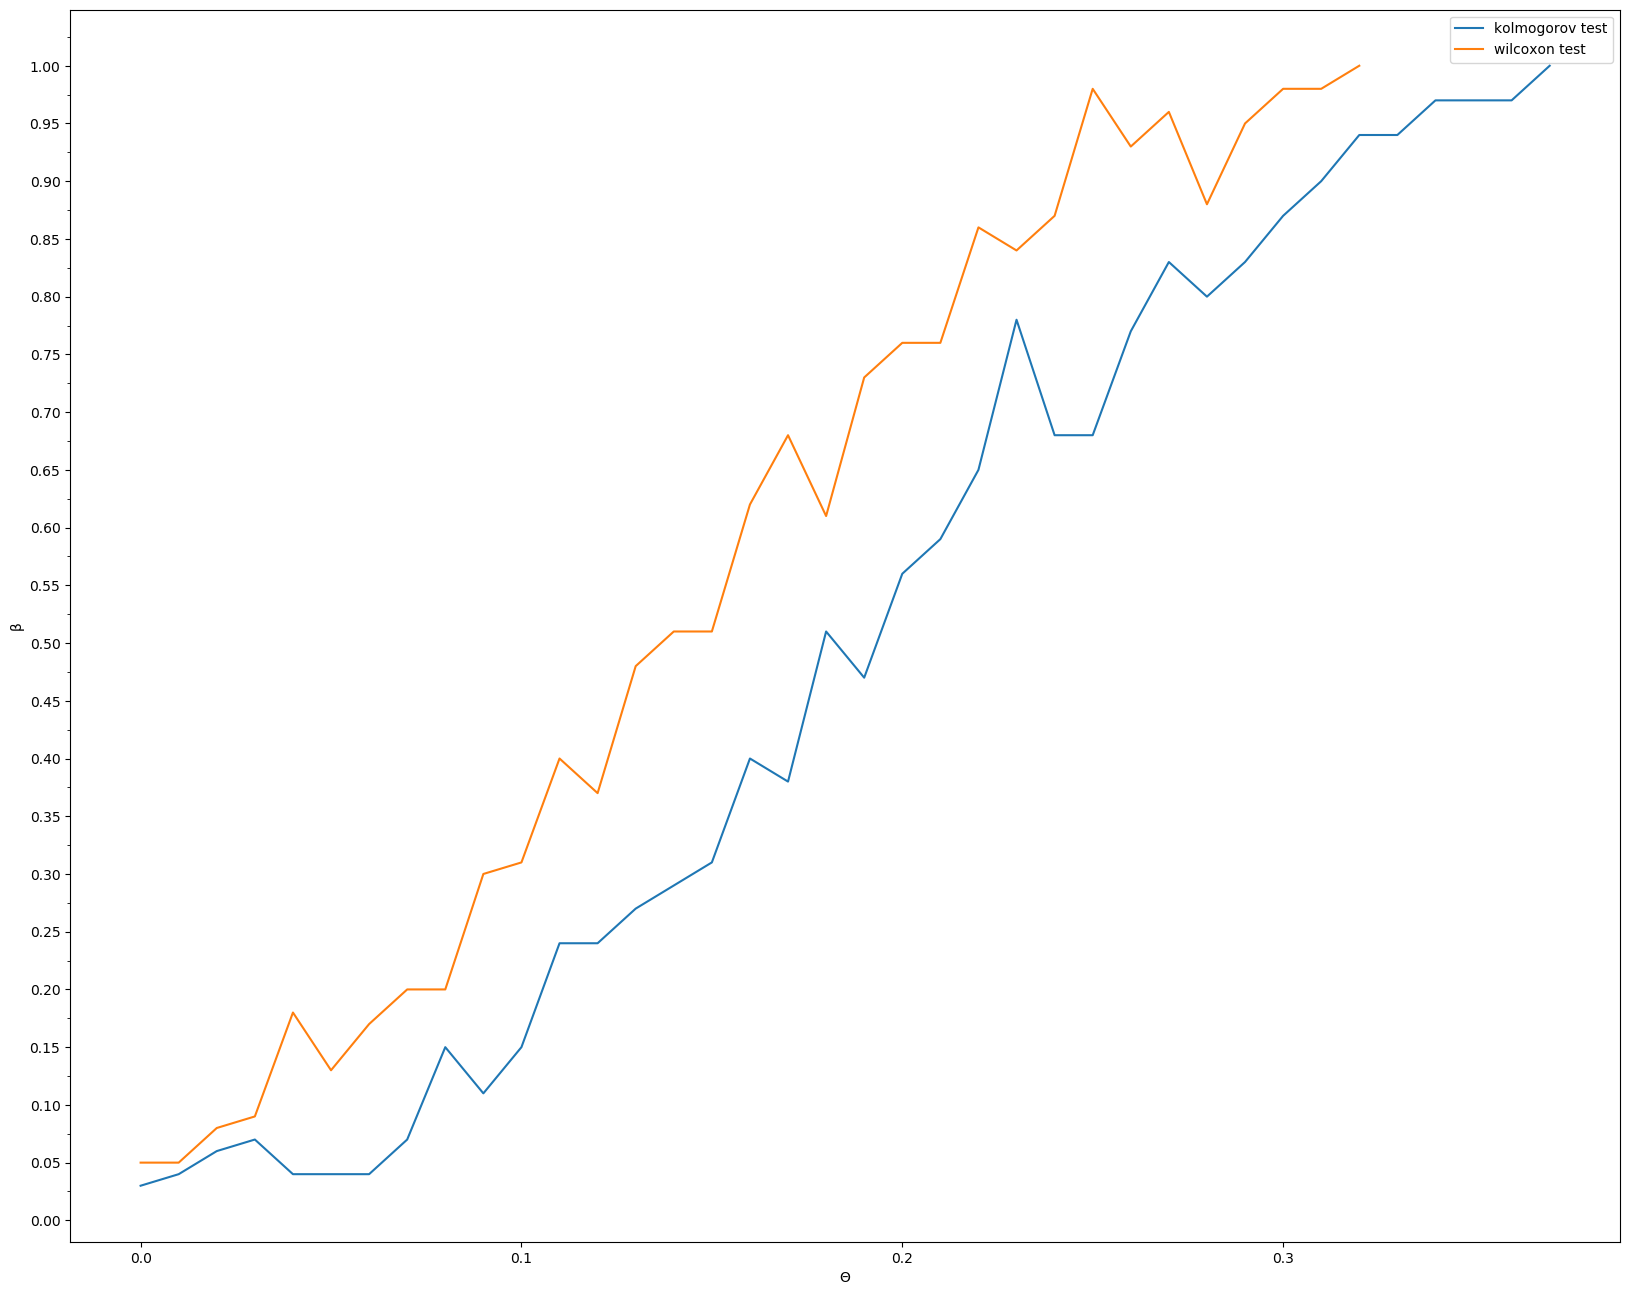
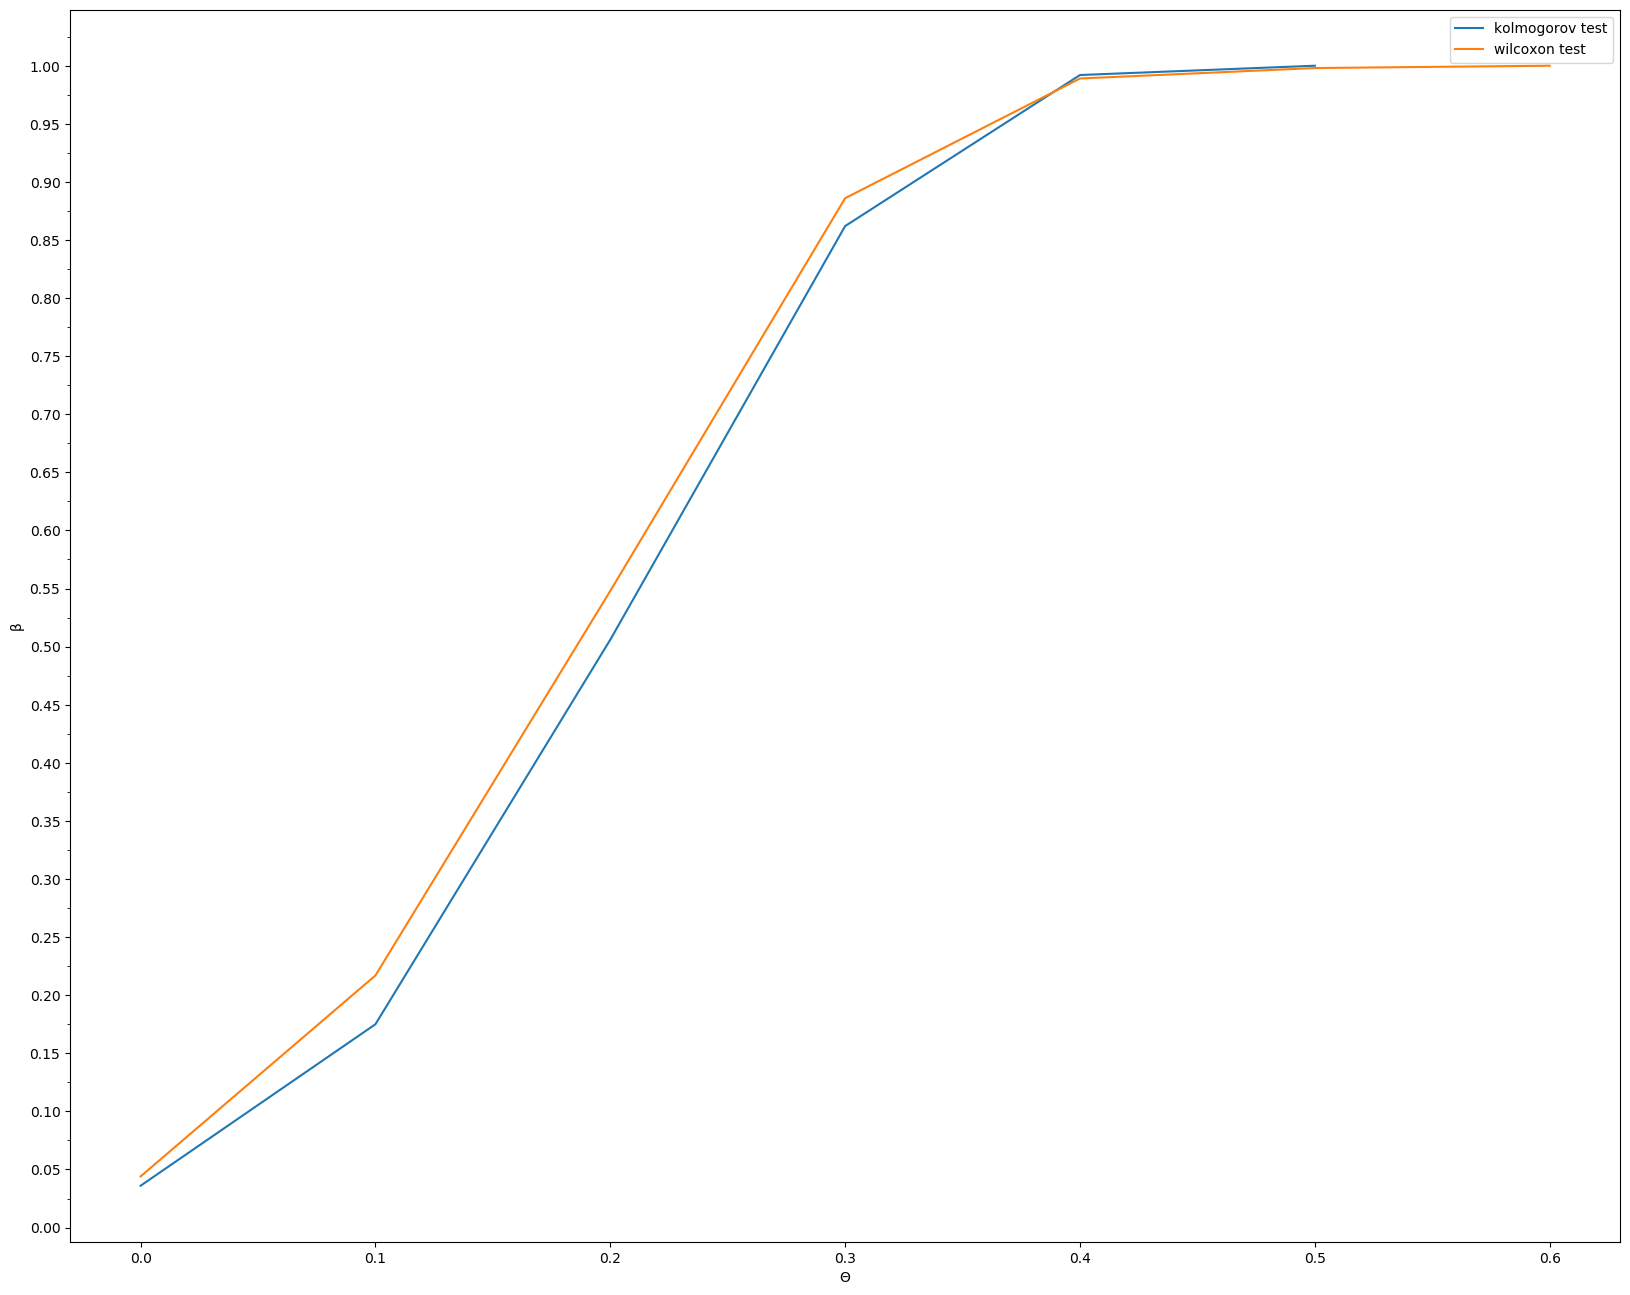
Van der Waerden test added

diff --git a/Hypothesis_testing/van_der_waerden.py b/Hypothesis_testing/van_der_waerden.py
@@ -1,0 +1,26 @@
+import numpy as np
+from scipy import stats
+
+
+def van_der_waerden_statistic(x, y):
+    x_extended = [(elem, 'x') for elem in x]
+    y_extended = [(elem, 'y') for elem in y]
+    w = np.concatenate((x_extended, y_extended))
+    w = sorted(w, key=lambda elem: elem[0])
+
+    statistic = 0
+    variance = 0
+    for i in range(len(w)):
+        if w[i] == 'y':
+            statistic += stats.norm.ppf(i + 1 / (len(x) + len(y) + 1))
+        variance += stats.norm.ppf(i + 1 / (len(x) + len(y) + 1)) ** 2
+
+    variance *= len(x) * len(y) / (len(x) + len(y)) / (len(x) + len(y) - 1)
+    return statistic, variance
+
+
+def van_der_waerden_test(x, y, alpha):
+    quantile = stats.norm.ppf(1 - alpha / 2)
+    statistic, variance = van_der_waerden_statistic(x, y)
+    statistic /= variance
+    return statistic < -quantile or statistic > quantile

diff --git a/Hypothesis_testing/student_test.py b/Hypothesis_testing/student_test.py
@@ -10,6 +10,5 @@ def student_statistic(x, y):
 
 
 def student_test(x, y, alpha):
-    quantileU = scipy.stats.t.ppf(1 - alpha / 2, len(x) + len(y) - 2)
-    quantileD = scipy.stats.t.ppf(alpha / 2, len(x) + len(y) - 2)
-    return student_statistic(x, y) > quantileU or student_statistic(x, y) < quantileD
+    quantile = scipy.stats.t.ppf(1 - alpha / 2, len(x) + len(y) - 2)
+    return student_statistic(x, y) > quantile or student_statistic(x, y) < -quantile

diff --git a/Hypothesis_testing/kolmogorov_test.py b/Hypothesis_testing/kolmogorov_test.py
@@ -2,6 +2,6 @@ import scipy.stats
 
 
 def kolmogorov_test(x, y, alpha):
-    p_value = scipy.stats.ks_2samp(x, y, alternative='greater', mode='asymp')[1]
+    # p_value = scipy.stats.ks_2samp(x, y, alternative='greater', mode='asymp')[1]
     p_value = scipy.stats.ks_2samp(x, y, mode='asymp')[1]
     return p_value < alpha

diff --git a/Hypothesis_testing/tests/kolmogorov_wilcoxon_test.py b/Hypothesis_testing/tests/kolmogorov_wilcoxon_test.py
@@ -4,8 +4,8 @@ from testing import do_test
 import matplotlib.pyplot as plt
 
 SAMPLE_SIZE = 300
-DELTA = 0.01
-REPETITION = 1000
+DELTA = 0.1
+REPETITION = 10000
 ALPHA = 0.05
 FREEDOM_DEGREES = 5
 

diff --git a/Hypothesis_testing/testing.py b/Hypothesis_testing/testing.py
@@ -7,7 +7,7 @@ import matplotlib.pyplot as plt
 import matplotlib.ticker as ticker
 import os
 
-DELTA = 0.01
+DELTA = 0.025
 REPETITION = 100
 ALPHA = 0.05
 FREEDOM_DEGREES = 5
